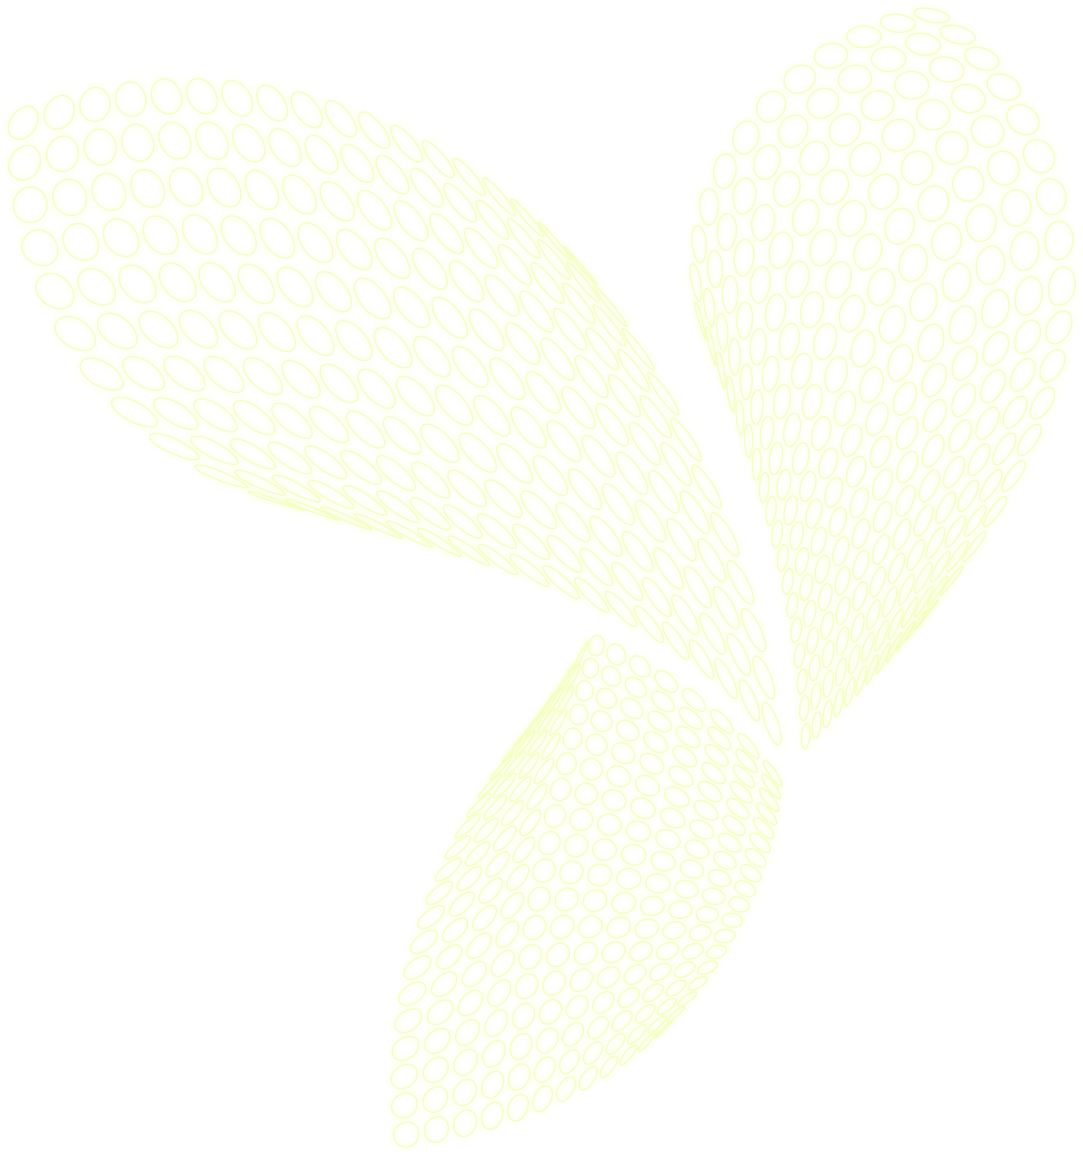
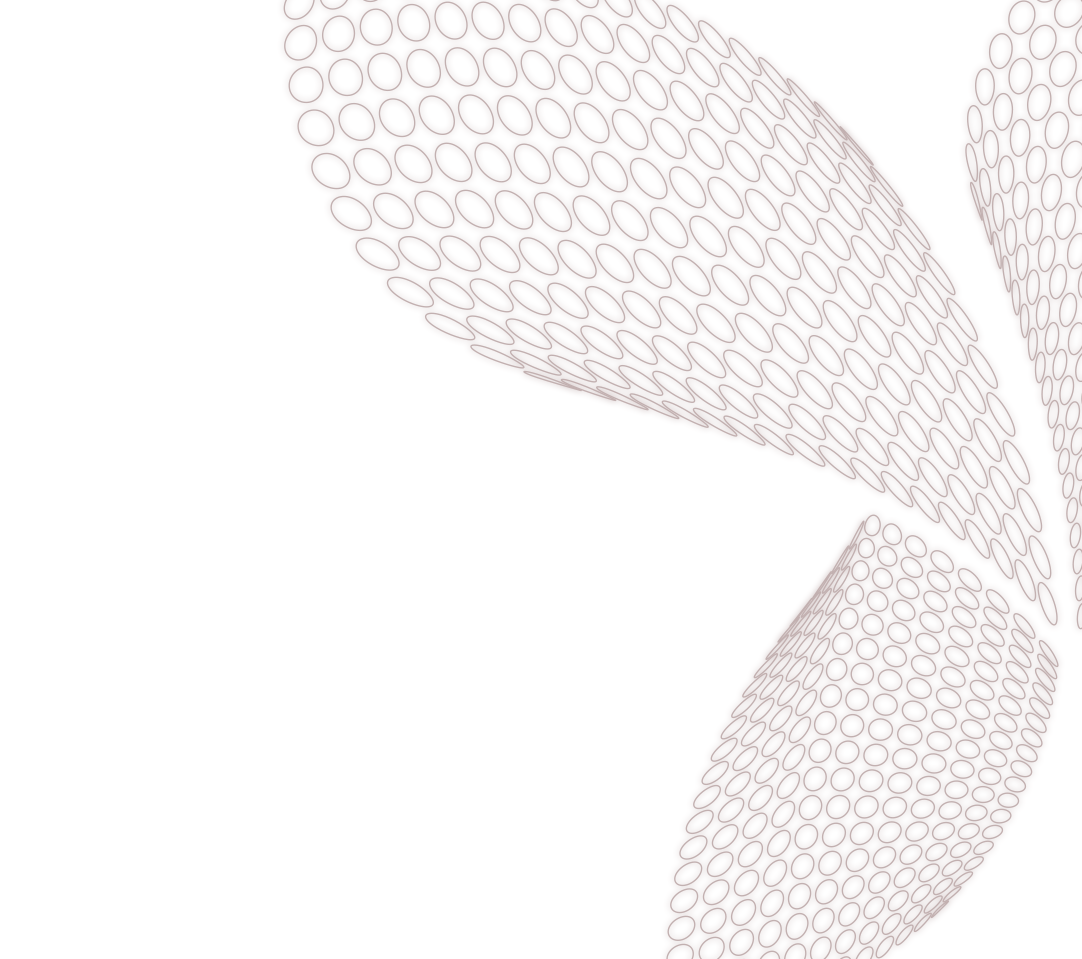
Front jumbo background image fixes

Changed region(s): [[0.0, 0.0, 1.0, 1.0]]

diff --git a/scss/5-pages/_index.scss b/scss/5-pages/_index.scss
@@ -2,19 +2,17 @@
   margin-top: 2em;
 }
 .sitejumbo {
-  position: relative;
-  top: -120px;
-  height: 1155px;
+  height: 900px;
   background-color: $eshill-light-blue;
   background-repeat: no-repeat;
   background-position: right;
   background-image: url(../image/yiibackground.png);
+  background-height: 100%;
+  overflow: hidden;
   background-blend-mode: soft-light;
   z-index: -1;
   .container {
     padding: 1em;
-    position: relative;
-    top: 140px;
     color: $eshill-section-bgcolor;
     h1 {
       font-size: 48px;

diff --git a/views/site/partials/index/_jumbo.php b/views/site/partials/index/_jumbo.php
@@ -3,7 +3,7 @@
         <div class="row">
             <h1>The solid foundation for your PHP application</h1>
             <p>
-                Lorem ipsum dolor sit amet, consectetur adipisicing elit, sed do eiusmod tempor incididunt ut labore et dolore magna aliqua. Ut enim ad minim veniam, quis nostrud exercitation ullamco laboris nisi ut aliquip ex ea commodo consequat. Duis aute irure dolor in reprehenderit in voluptate velit esse cillum dolore eu fugiat nulla pariatur. Excepteur sint occaecat cupidatat non proident, sunt in culpa qui officia deserunt mollit anim id est laborum.
+                Pinterest everyday carry cold-pressed literally PBR&B, chicharrones neutra heirloom keytar pop-up. Pabst deep v cold-pressed celiac, twee food truck cardigan. Cray kickstarter lumbersexual, tattooed meditation XOXO 90's. Ramps beard viral keffiyeh listicle, chambray distillery. Franzen banjo chartreuse iPhone gentrify hashtag. Kogi trust fund flexitarian, synth forage squid scenester tacos. Hammock try-hard master cleanse yuccie, asymmetrical gastropub seitan.
             </p>
         </div>
     </div>
